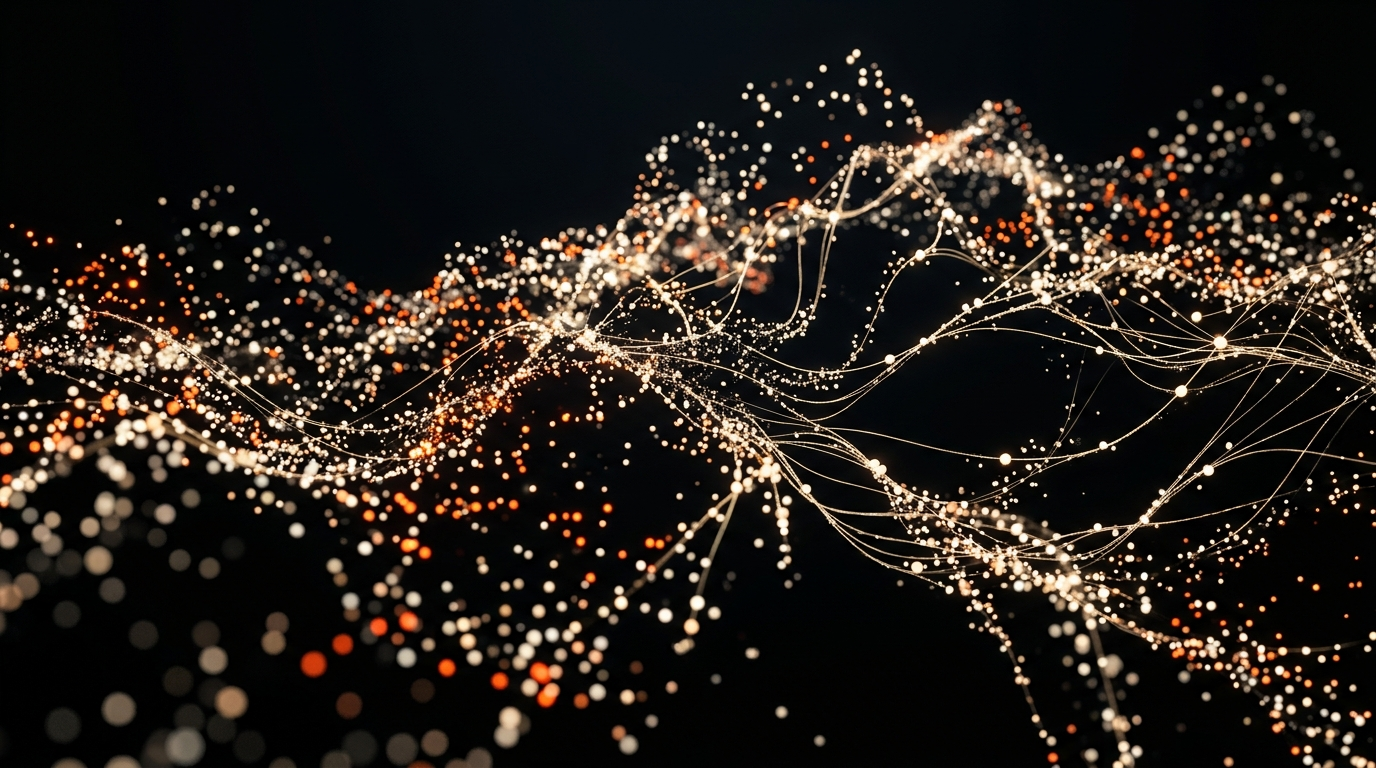
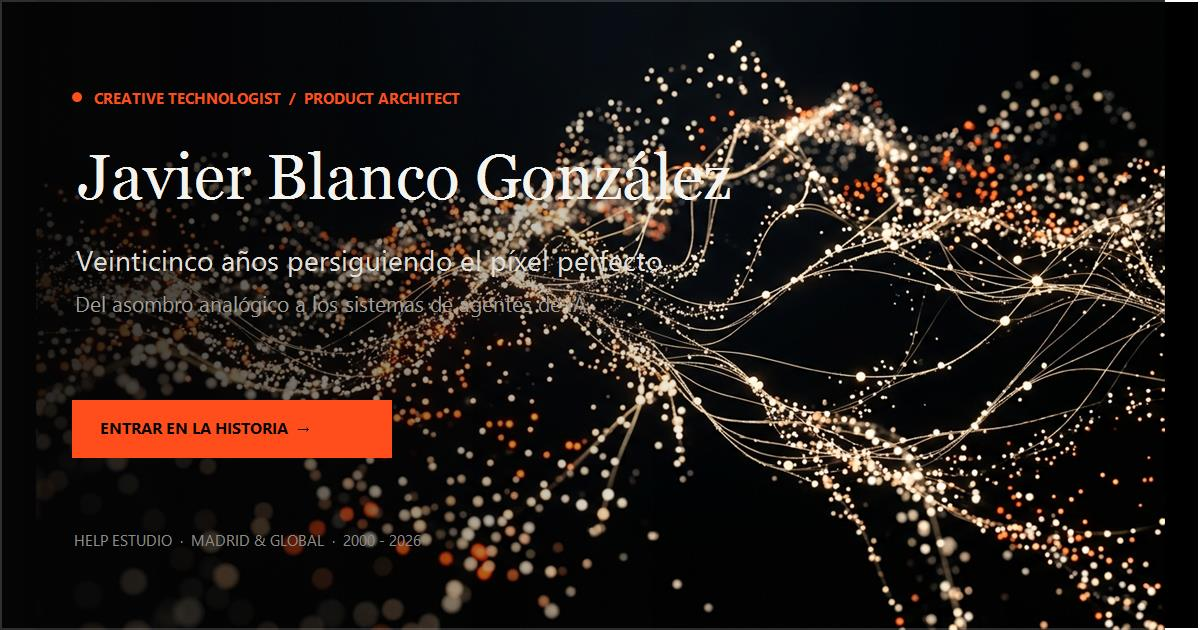
fix(seo): exact 1200x630 og-image with conversion headline, CTA and optimized title length

diff --git a/src/app/layout.tsx b/src/app/layout.tsx
@@ -37,7 +37,7 @@ const siteUrl = "https://cv-psi-ochre.vercel.app";
 export const metadata: Metadata = {
   metadataBase: new URL(siteUrl),
   title: {
-    default: "Javier Blanco González — Creative Technologist & Product Architect",
+    default: "Javier Blanco González · Creative Technologist",
     template: "%s | Javier Blanco González",
   },
   description:
@@ -65,7 +65,7 @@ export const metadata: Metadata = {
     telephone: false,
   },
   openGraph: {
-    title: "Javier Blanco González — Creative Technologist & Product Architect",
+    title: "Javier Blanco González · Creative Technologist",
     description:
       "Veinticinco años persiguiendo el píxel perfecto. Del asombro analógico al pulso de los agentes de IA.",
     url: siteUrl,
@@ -84,7 +84,7 @@ export const metadata: Metadata = {
   },
   twitter: {
     card: "summary_large_image",
-    title: "Javier Blanco González — Creative Technologist & Product Architect",
+    title: "Javier Blanco González · Creative Technologist",
     description:
       "Veinticinco años persiguiendo el píxel perfecto. Del asombro analógico al pulso de los agentes de IA.",
     images: [
